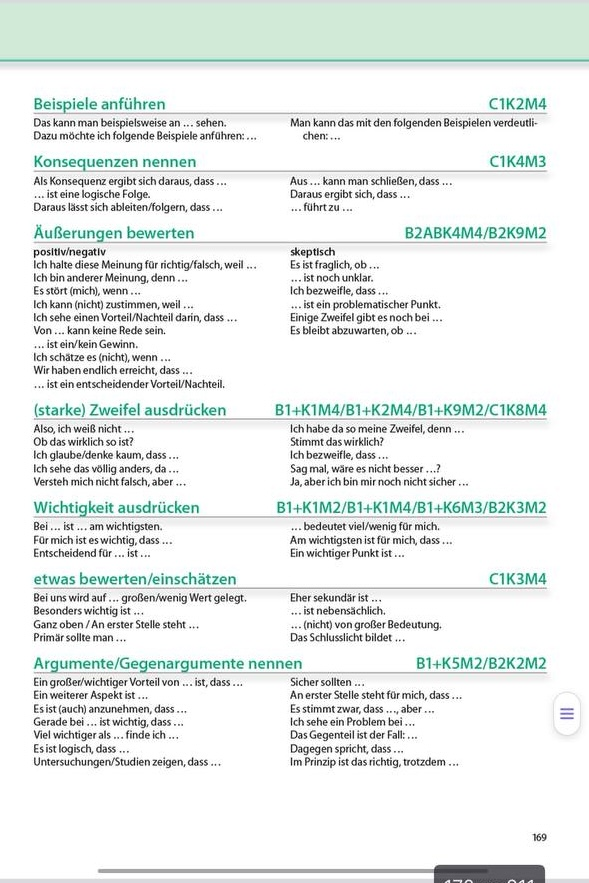
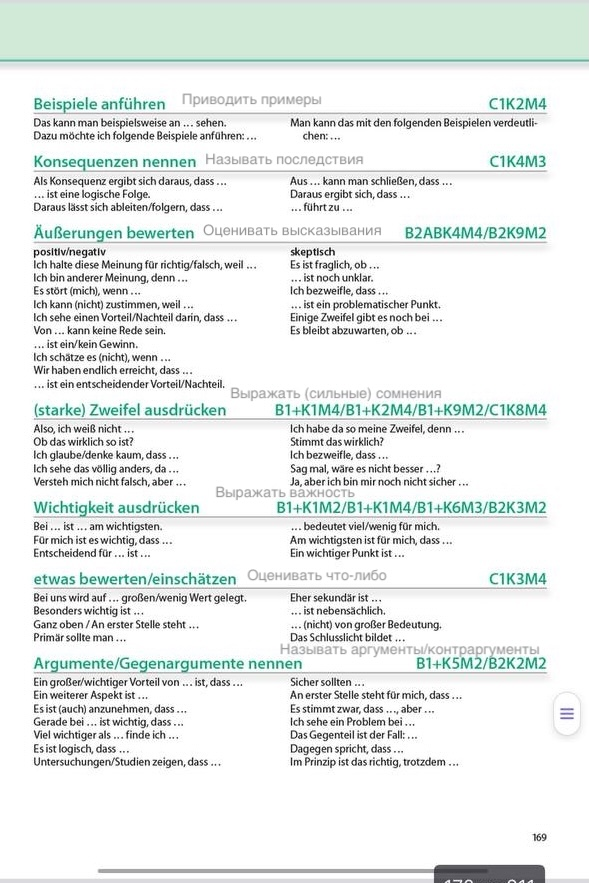
feat(anki, daria): expressions / redemittel for B1 exam

diff --git a/resource/sentence/redemittel/REDELMITTEL.md b/resource/sentence/redemittel/REDELMITTEL.md
@@ -1,0 +1,91 @@
+# Средства выражения (Redelmittel)
+
+Полезнеые предложения, которые помогают строить фразы
+
+## 001-for-b1-exam
+
+### Фразы которые я взял для заучивания [2025 08]
+
+#### Выражение мнения
+
+- Ich stehe auf dem Standpunkt, dass ... - Я считаю, что ...
+- Ich bin da geteilter Mainung: Auf der einen Seite ..., auf der anderen Seite ... - У меня два мнения: с одной стороны ..., с другой стороны ...
+
+#### Дискуссия
+
+##### Согласие
+
+- Das stimmt - Все верно
+- Das is ach meine Mainung, da ... - это и мое мнение тоже, потому что ...
+
+##### Несогласие
+
+- ... finde ich gut, aber ... - я думаю это хорошо, но ...
+- Ich sehe das etwas anders, denn ... - я вижу это немного по другому, потому что ...
+
+#### Предложение чего-либо
+
+- Wir können doch ... / Man könnte doch ... - Мы могли бы ... / Можно было бы ...
+- Wie finden Sie / findest du folgende Idee: ... ? Что Вы думаете / ты думаешь о следующей идее: ... ?
+
+#### Вежливые рекомендации
+
+- Lass uns doch lieber ... - Давайте скорее ...
+- Keine schlechte Idee, aber wie wär's, wenn wir ...? - Неплохая идея, но что если мы ...?
+
+### Темы в файлах (по номеру файла)
+
+<details>
+
+|     |                                                  |                                             |
+| --- | ------------------------------------------------ | ------------------------------------------- |
+| 001 | Meinungen ausdrücken.                            | Выражать мнение                             |
+| 001 | eine Begründung ausdrücken                       | Выражать обоснование                        |
+| 001 | Zustimmung ausdrücken                            | Выражать согласие                           |
+| 001 | Widerspruch/Ablehnung ausdrücken                 | Выражать несогласие/отказ                   |
+| 002 | Beispiele anführen                               | Приводить примеры                           |
+| 002 | Konsequenzen nennen                              | Называть последствия                        |
+| 002 | Äußerungen bewerten                              | Оценивать высказывания                      |
+| 002 | (starke) Zweifel ausdrücken                      | Выражать (сильные) сомнения                 |
+| 002 | Wichtgkeit ausdrücken                            | Выражать важность                           |
+| 002 | etwas bewerten/einschätzen                       | Оценивать/оценивать что-либо                |
+| 002 | Argumente/gegenargumente nennen                  | Называть аргументы/контраргументы           |
+| 003 | Argumente verbinden                              | Связывать аргументы                         |
+| 003 | Argumente austauschen                            | Обмениваться аргументами                    |
+| 003 | Vor- und Nachteile nennen                        | Называть преимущества и недостатки          |
+| 003 | Vor- und Nachteile abwägen                       | Взвешивать преимущества и недостатки        |
+| 003 | Vermutungen ausdrücken                           | Выражать предположения                      |
+| 003 | höfliche Bitten ausdrücken                       | Выражать вежливые просьбы                   |
+| 004 | jemanden überzeugen                              | Убеждать кого-либо                          |
+| 004 | Vorschläge machen                                | Делать предложения                          |
+| 004 | Gegenvorschläge machen                           | Делать встречные предложения                |
+| 004 | Vorschläge annehmen                              | Принимать предложения                       |
+| 004 | Vorschläge ablehnen                              | Отклонять предложения                       |
+| 004 | sich einigen                                     | Приходить к соглашению                      |
+| 005 | Wünche, Ziele und Pläne ausdrücken               | Выражать желания, цели и планы              |
+| 005 | Gefühle und Wünsche ausdrücken                   | Выражать чувства и желания                  |
+| 005 | Verhalten bewerten                               | Оценивать поведение                         |
+| 005 | Verärgerung ausdrücken / Kritik üben             | Выражать недовольство / критиковать         |
+| 005 | auf Kritik reagiren                              | Реагировать на критику                      |
+| 005 | Ratschläge/Tipps geben                           | Давать советы / рекомендации                |
+| 006 | Erstaunen/Überraschung ausdrücken                | Выражать удивление / изумление              |
+| 006 | Situationen einschätzen                          | Оценивать ситуации                          |
+| 006 | Verständnis zeigen                               | Проявлять понимание                         |
+| 006 | Unsicherheit/Sorge ausdrücken                    | Выражать неуверенность / беспокойство       |
+| 006 | sich rückversichern                              | Убеждаться                                  |
+| 006 | Probleme beschreiben                             | Описывать проблемы                          |
+| 006 | über Erfahrungen berichten                       | Рассказывать о своих впечатлениях           |
+| 006 | über interkulturelle Missverständnisse berichten | Рассказывать о межкультурных недоразумениях |
+| 007 | etwas vergleichen                                | Сравнивать что-либо                         |
+| 007 | Beschwerden ausdrücken und darauf reagieren      | Выражать недовольство и реагировать на него |
+| 007 | einen Beschwerdebrief schreiben                  | Написать письмо с жалобой                   |
+| 008 | such zu einem Event äußern                       | Высказать свое мнение о событии             |
+| 008 | eine Diskussion führen                           | Вести дискуссию                             |
+| 008 | eine Bewerbung schreiben                         | Написать заявление о приеме на работу       |
+| 009 | eine Grafik beschreiben                          | Описать график                              |
+| 009 | eine Buch- oder Filmbespreching screiben         | Написать рецензию на книгу или фильм        |
+| 010 | einen Forumsbeitrag schreiben                    | Написать сообщение на форуме                |
+| 010 | einen Leserbrief schreiben                       | Написать письмо в редакцию                  |
+| 010 | einen Kommentar schreiben                        | Написать комментарий                        |
+
+</details>

diff --git a/app/anki/ai/PROMPTS.md b/app/anki/ai/PROMPTS.md
@@ -53,3 +53,41 @@ sein;war;gewesen;быть;<i>Ich möchte morgen früh im Büro <b>sein</b>.</i>;
 ```csv(semilocon)
 
 ```
+
+## Redelmittel фразы
+
+### Добавить примеры
+
+У меня есть файл с т.н. Redelmittel фразами. Репетитор дала мне их для подготовки к B1 экзамену по немецкому языку. Предполагается, что я их заучу и буду использовать как шаблоны в разговоре и в написании текста.
+Я подготовил таблицу с этими фразами в формате csv(semicolon).
+Структура таблицы: Front;Back;Example;ExampleTranslation;Contex;ContextTranslation
+где
+- Front - фраза на немецком (с многоточием для подстановки в зависимости от контекста
+- Back - перевод фразы на русский
+- Example - 3 примера использования фразы (где вместо многоточия что-то подставлено). Примеры разделены тегом <br />. 
+- ExampleTranslation - переводы примеров использования фразы (где вместо многоточия что-то подставлено). Также разделены тегом <br />. 
+- Context - контекст
+- ContextTranslation - перевод контекста
+
+Ниже я приложу эту таблицу, где не хватает примеров. Я хочу, чтобы ты добавила примеры и их переводы в таблицу.
+Обрати внимание, чтобы каждая строка заканчивалась закрывающей ";"
+
+```csv(semicolon)
+
+```
+
+### Распарсить
+
+Мой репетитор написала от руки текст для подготовки к экзамену B1 по немецкому.
+Она сфотографировала то, что написала и прислала мне картинками. На этих картинках написаны заготовки (темплейты) для фраз, которые можно использовать в разных случаях в письме или речи.
+Я буду присылать тебе одну за другой эти картинки.
+Мне надо, чтобы ты распознала заголовки (зеленым) + справа от них уровень языка (тоже зеленым) и текст (черным) в них и составила csv(semicolon) таблицу формата:
+
+Заголовок1 (уровень);Перевод заголовка 1;
+фраза на немецком 1;перевод фразы 2;
+фраза на немецком 2;перевод фразы 2;
+Заголовок2 (уровень);Перевод заголовка 2;
+фраза на немецком 3;перевод фразы 3;
+фраза на немецком 4;перевод фразы 4;
+
+Формат надо сохранять, то есть если в тексте есть пропуск обозначенный многотоичем, это также должно присутствовать в таблице.

diff --git a/resource/sentence/SENTENCES.md b/resource/sentence/SENTENCES.md
@@ -1,15 +1,9 @@
 # Sentences
 
-Предложения-примеры.
+Предложения-примеры
+
+- [Redelmittel](./redemittel/REDELMITTEL.md) - Средства выражения. Полезнеые предложения, которые помогают строить фразы
 
 ## Tatoeba
 
 - [Tatoeba](https://tatoeba.org/en/downloads) - бесплатный ресурс [[source: Sentence adder for any language with batch add option](https://ankiweb.net/shared/info/1682655437)]
-
-## Redemittel
-
-Средства выражения
-
-Полезнеые предложения, которые помогают строить фразы
-
-- [For B1 exam](./redemittel/001-for-b1-exam/)
